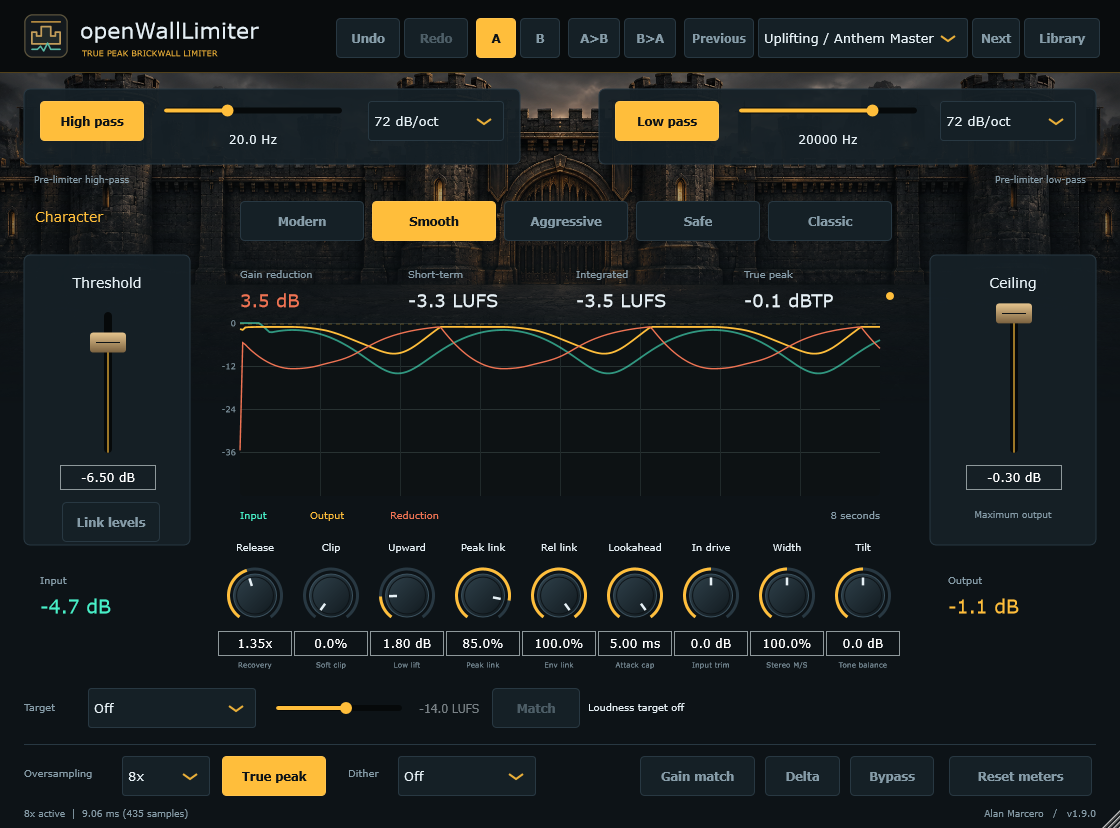
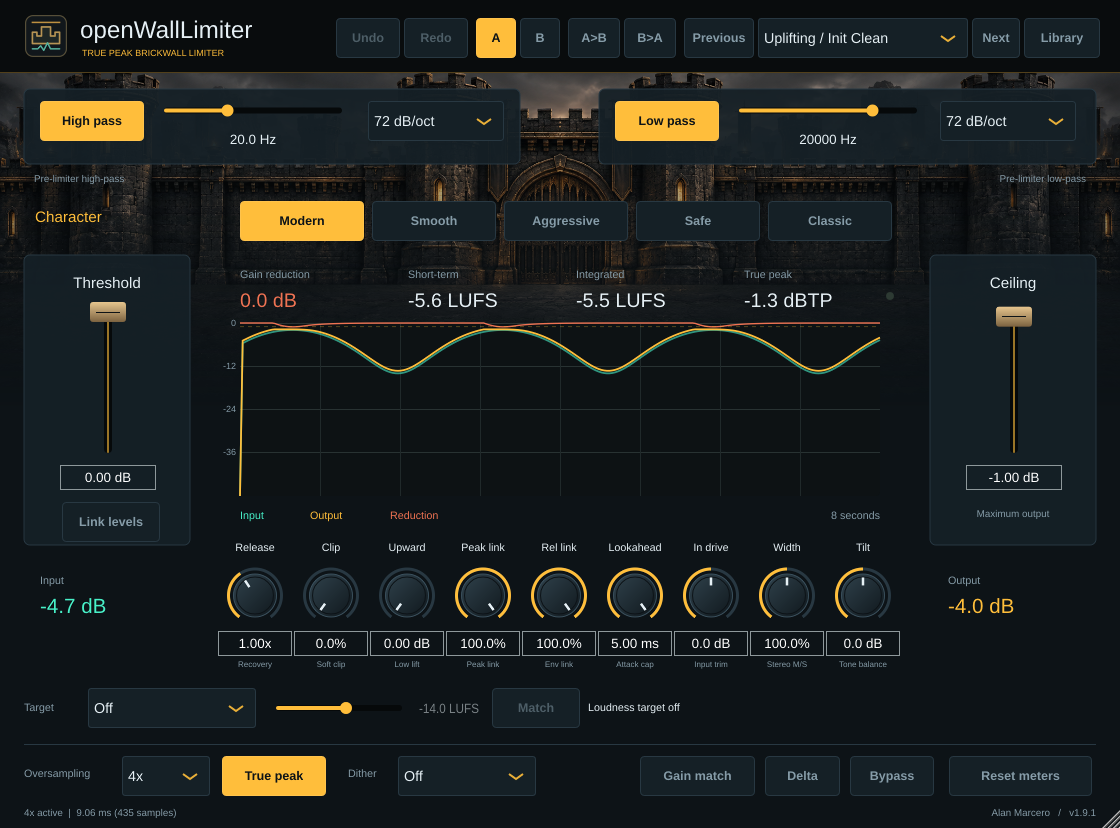
docs: refresh the factory-default editor preview
update-preview skipped the v1.9.1 main push because that commit did not
touch Source, assets, or Tests, so the version drawn in the editor never
landed in docs/screenshots/preview.png. Capture the factory default patch
at the default editor size and commit the Windows screenshot on every
main push when the pixels change.

diff --git a/Tests/PluginTests.cpp b/Tests/PluginTests.cpp
@@ -146,14 +146,29 @@ int main(int argc, char **argv) {
         juce::File output =
             juce::File::getCurrentWorkingDirectory().getChildFile(argc > 1 ? argv[1] : "docs/screenshots");
         output.createDirectory();
+        // The checks above load a factory preset and move parameters. The published
+        // preview is a separate editor on the factory default patch at the default size.
+        WallProcessor preview;
+        preview.prepareToPlay(48000, 256);
+        auto previewEditor = std::unique_ptr<juce::AudioProcessorEditor>(preview.createEditor());
+        require(previewEditor->getWidth() == WallProcessor::defaultEditorWidth, "preview width");
+        require(previewEditor->getHeight() == WallProcessor::defaultEditorHeight, "preview height");
+        require(preview.getCurrentProgram() == 0, "preview program");
+        require(std::abs(preview.parameters.getRawParameterValue("threshold")->load()) < .02f, "preview threshold");
+        require(std::abs(preview.parameters.getRawParameterValue("ceiling")->load() + 1.f) < .02f, "preview ceiling");
+        require(std::abs(preview.parameters.getRawParameterValue("mode")->load()) < .02f, "preview mode");
+        require(std::lround(preview.parameters.getRawParameterValue("oversampling")->load()) == 2, "preview oversampling");
         for (int tick = 0; tick < 240; ++tick) {
             auto signal =
                 checks::tone(1600, 48000, 997, .2f + .6f * float(.5 + .5 * std::sin(double(tick) * .08)));
-            checks::render(p, signal, 256);
+            checks::render(preview, signal, 256);
             juce::Thread::sleep(34);
             juce::Timer::callPendingTimersSynchronously();
         }
-        auto img = editor->createComponentSnapshot(editor->getLocalBounds());
+        auto img = previewEditor->createComponentSnapshot(previewEditor->getLocalBounds());
+        require(img.getWidth() == WallProcessor::defaultEditorWidth &&
+                    img.getHeight() == WallProcessor::defaultEditorHeight,
+                "preview snapshot size");
         juce::MemoryOutputStream png;
         juce::PNGImageFormat().writeImageToStream(img, png);
         require(output.getChildFile("openWallLimiter.png").replaceWithData(png.getData(), png.getDataSize()),
